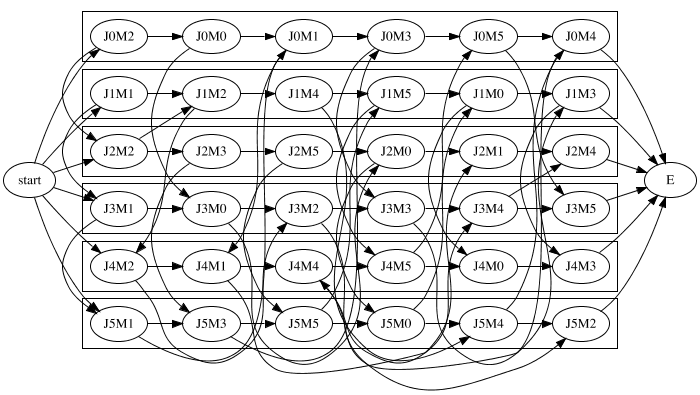
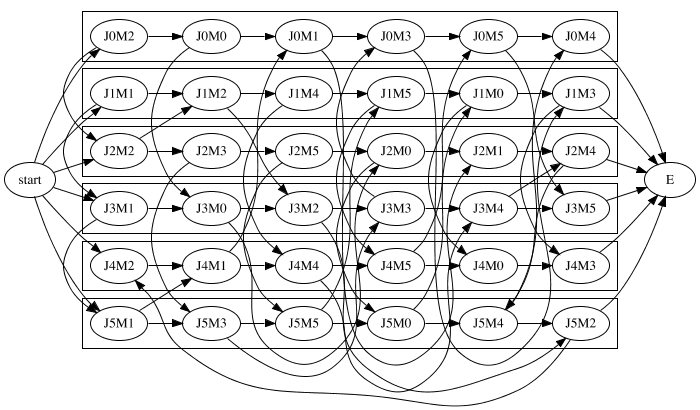
new ft06 lower bound

Changed region(s): [[0.0, 0.0, 1.0, 1.0]]

diff --git a/src/main/java/com/schedule/core/Graphs/Execution.java b/src/main/java/com/schedule/core/Graphs/Execution.java
@@ -46,7 +46,7 @@ public class Execution {
     public static void main(String[] args) {
 
         //Benchmark instance to use
-        final String benchmarkInstance = "ta76";
+        final String benchmarkInstance = "ft06";
 
         //Generates parameters given the benchmark instance
         final Integer startingPopulation = AlgorithmParameters.startingPopulationParameter.get(benchmarkInstance);
@@ -70,7 +70,7 @@ public class Execution {
         final StringBuilder resultBuilder = new StringBuilder();
 
         // Loop dictating number of times entire algorithm is to be run on a random instance.
-        for (int i = 0; i < 1; i++) {
+        for (int i = 0; i < 10; i++) {
 
             LOG.debug("Generating starting schedules...");
 

diff --git a/src/main/java/com/schedule/core/Graphs/FeasibleSchedules/Config/AlgorithmParameters.java b/src/main/java/com/schedule/core/Graphs/FeasibleSchedules/Config/AlgorithmParameters.java
@@ -44,7 +44,7 @@ public class AlgorithmParameters {
             put("swv18",500);
             put("ta69", 500);
             put("ta71", 500);
-            put("ta76", 500);
+            put("ta76", 300);
             put("yn2",  500);
         }
     };
@@ -66,7 +66,7 @@ public class AlgorithmParameters {
             put("swv18",new Double[]{1000000.0, 0.001});
             put("ta69", new Double[]{1000000.0, 0.001});
             put("ta71", new Double[]{1000000.0, 0.001});
-            put("ta76", new Double[]{1000000.0, 0.001});
+            put("ta76", new Double[]{100000000.0, 0.001});
             put("yn2",  new Double[]{1000000.0, 0.001});
         }
     };

diff --git a/src/main/java/com/schedule/core/Graphs/FeasibleSchedules/Config/BenchmarkLowerBounds.java b/src/main/java/com/schedule/core/Graphs/FeasibleSchedules/Config/BenchmarkLowerBounds.java
@@ -17,7 +17,6 @@ public class BenchmarkLowerBounds {
             put("la11", 1222);
             put("la23", 1032);
             put("swv11", 2983);
-            //to be updated
             put("la34", 1721);
             put("la35", 1888);
             put("swv11",2983);
